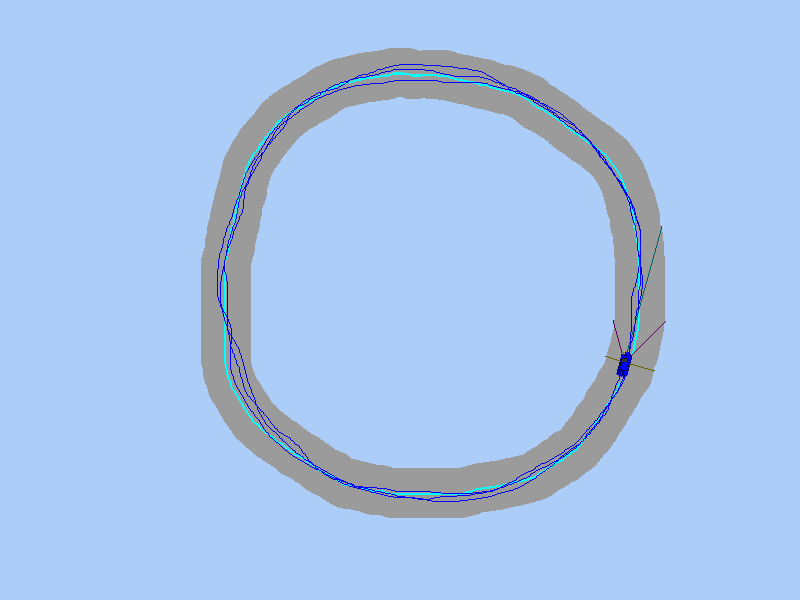
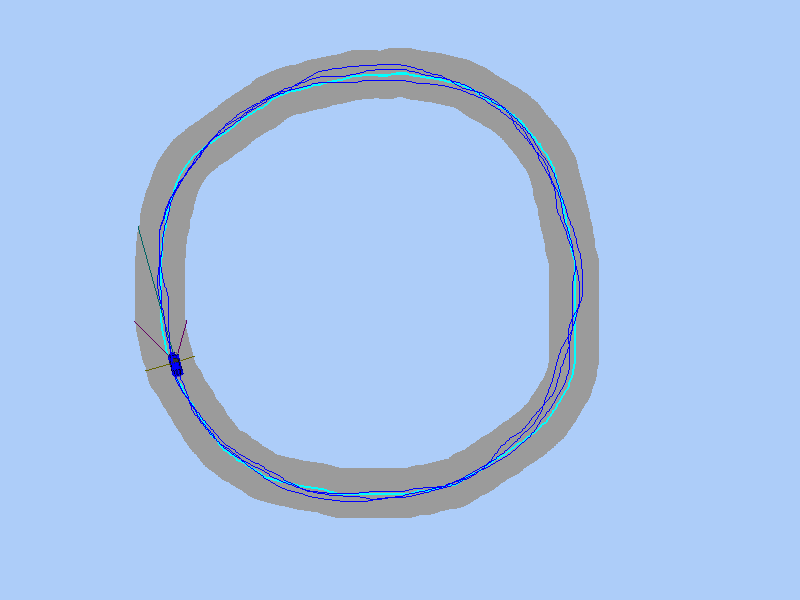
微调奖励函数，AC学习率，跑通曲线跑道

Changed region(s): [[0.1562, 0.09, 0.8438, 0.87], [0.5312, 0.06, 0.5625, 0.09], [0.4375, 0.06, 0.4688, 0.09]]

diff --git a/CarGameAI.py b/CarGameAI.py
@@ -87,7 +87,7 @@ class CarGameAI(object):
         self.tracking.append([self.car.carInfo.intPos[0], self.car.carInfo.intPos[1]])
 
         # 生存奖励
-        liveReward = -100 if self.car.carInfo.isDone == True else 0
+        liveReward = -100 if self.car.carInfo.isDone == True else 2
         # liveReward = 0
 
         # 居中奖励
@@ -96,7 +96,7 @@ class CarGameAI(object):
 
         # 速度奖励
         # speedReward = self.car.carInfo.speed * 2
-        speedReward = 0.5
+        speedReward = 0
 
         # 总的奖励
         allReward = liveReward + centerReward + speedReward

diff --git a/AI/net/net.py b/AI/net/net.py
@@ -25,10 +25,10 @@ class ActorNetwork(nn.Module):
         self.sigma = nn.Linear(hidden_size, action_size)
         # self.activate4 = torch.nn.LeakyReLU(0.001)
 
-        for m in self.children():
-            if isinstance(m, (nn.Linear)):
-                m.weight.data.normal_(0, 0.1)
-                m.bias.data.zero_()
+        # for m in self.children():
+        #     if isinstance(m, (nn.Linear)):
+        #         m.weight.data.normal_(0, 0.1)
+        #         m.bias.data.zero_()
 
     def forward(self, x):
         x = self.activate1(self.fc1(x))

diff --git a/AI/Model.py b/AI/Model.py
@@ -96,11 +96,11 @@ class Mymodel(object):
                                                   lr=ACTOR_NETWORK_LR)
 
         # init the environment
-        self.taskEnv = env(mapIndex=1, initPosIndex=0)
+        self.taskEnv = env(mapIndex=0, initPosIndex=0)
         self.taskEnv.reset()
 
         # init the test environment
-        self.testEnv = env(mapIndex=1, initPosIndex=0)
+        self.testEnv = env(mapIndex=0, initPosIndex=0)
         self.testEnv.reset()
 
         # init the data container

diff --git a/AI/config/RLConfig.py b/AI/config/RLConfig.py
@@ -23,7 +23,7 @@ META_VALUE_NETWORK_LR = 0.0001
 # META_VALUE_NETWORK_LR = 0
 TASK_CONFIG_NETWORK_LR = 0.004
 # ACTOR_NETWORK_LR = 0.0001  # 0.0002
-ACTOR_NETWORK_LR = 0.0001
+ACTOR_NETWORK_LR = 0.00005
 
 devices = "cuda:0"
 TIMESTR = time.strftime("%Y-%m-%dT%H-%M", time.localtime())

diff --git a/README.md b/README.md
@@ -1,5 +1,7 @@
 # CarRaceAI
-仿真跑道和强化学习控制
+本项目欲完成以下两个功能
+* 小车游戏（已完成）
+* 强化学习控制小车
 
 # 环境说明
 
@@ -10,16 +12,21 @@
 
 # 功能展示
 
-## 游戏模式 (方向键控制游戏)
+## AI模式(AI的控制方式和玩家一样)
+（目前没有训练好可以适应任何地图的AI）
+
+圆形赛道跑通，附上测试图片
+![](doc/2020-6-11-13-43-26.png)
+
+曲形赛道跑通，附上测试图片
+![](doc/2020-6-11-13-42-23.png)
+
+## 游戏模式 (玩家控制方向键游戏)
 ![](doc/gameMode.gif)
 
 ## 绘图模式（自己绘制地图）
 ![](doc/painterMode.gif)
 
-## AI模式
-（目前没有训练好可以适应任何地图的AI）
-圆形赛道跑通，附上测试图片
-![](doc/2020-6-11-13-43-26.png)
 
 # 更新日志
 
@@ -35,7 +42,8 @@
 
 # AI调参日志
 
-* 2020.06.18：AC学习率均为0.0001，奖励函数设置死亡惩罚100，不死每步奖励0.5。（迭代550次，可跑通圆形赛道）
+* 2020.06.18：AC学习率均为0.00005，奖励函数设置死亡惩罚100，不死每步奖励2。（迭代2500次，可跑通曲形赛道(id=0)）
+* 2020.06.18：AC学习率均为0.0001，奖励函数设置死亡惩罚100，不死每步奖励0.5。（迭代550次，可跑通圆形赛道(id=1)）
 * 2020.06.15：把该问题当做回归问题，虽然网络输出比较简单（只有加速度，角速度两个参数），但是从输出可以看到，很明显，可以收敛，但是有点难。回归法放弃！！！
 
 # 操作方法
